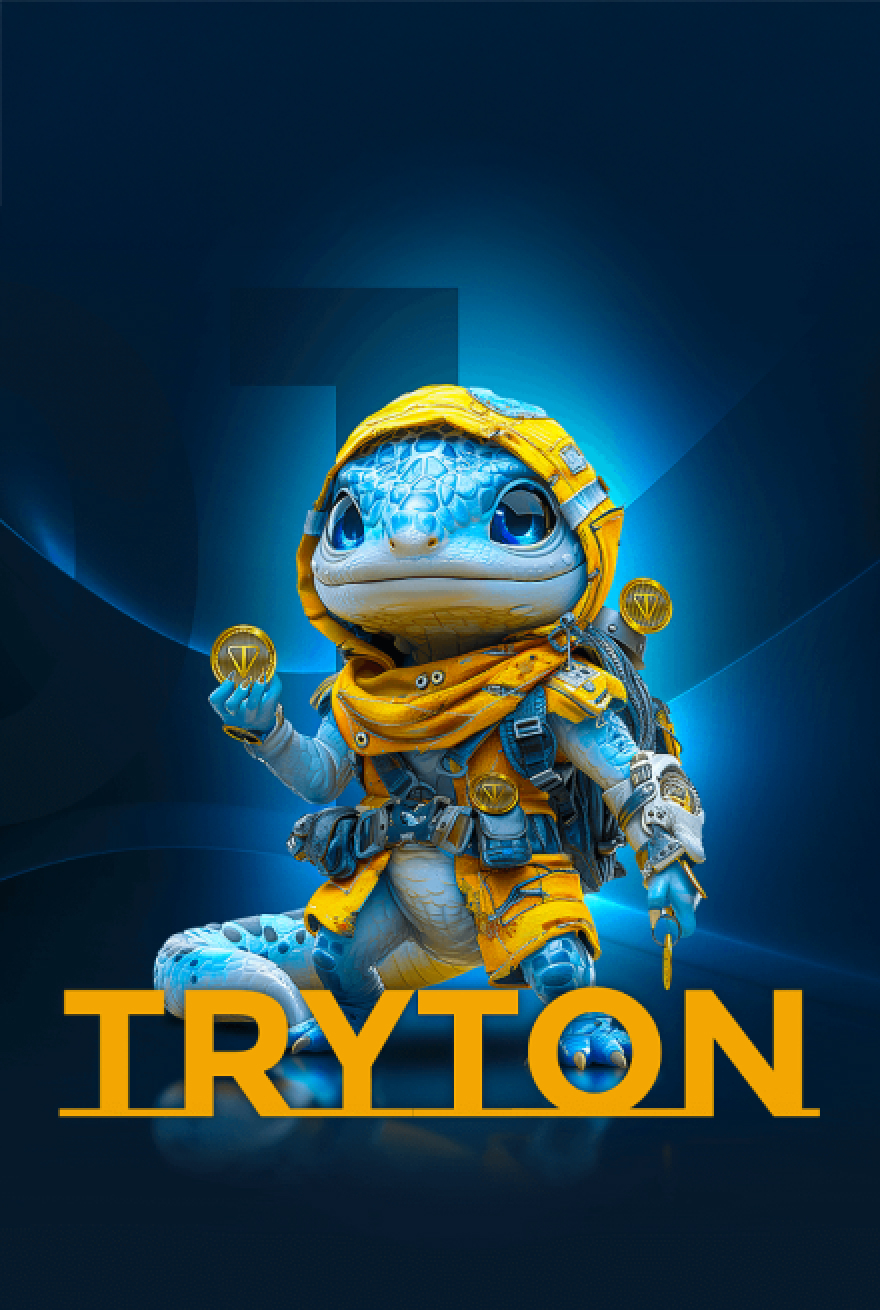
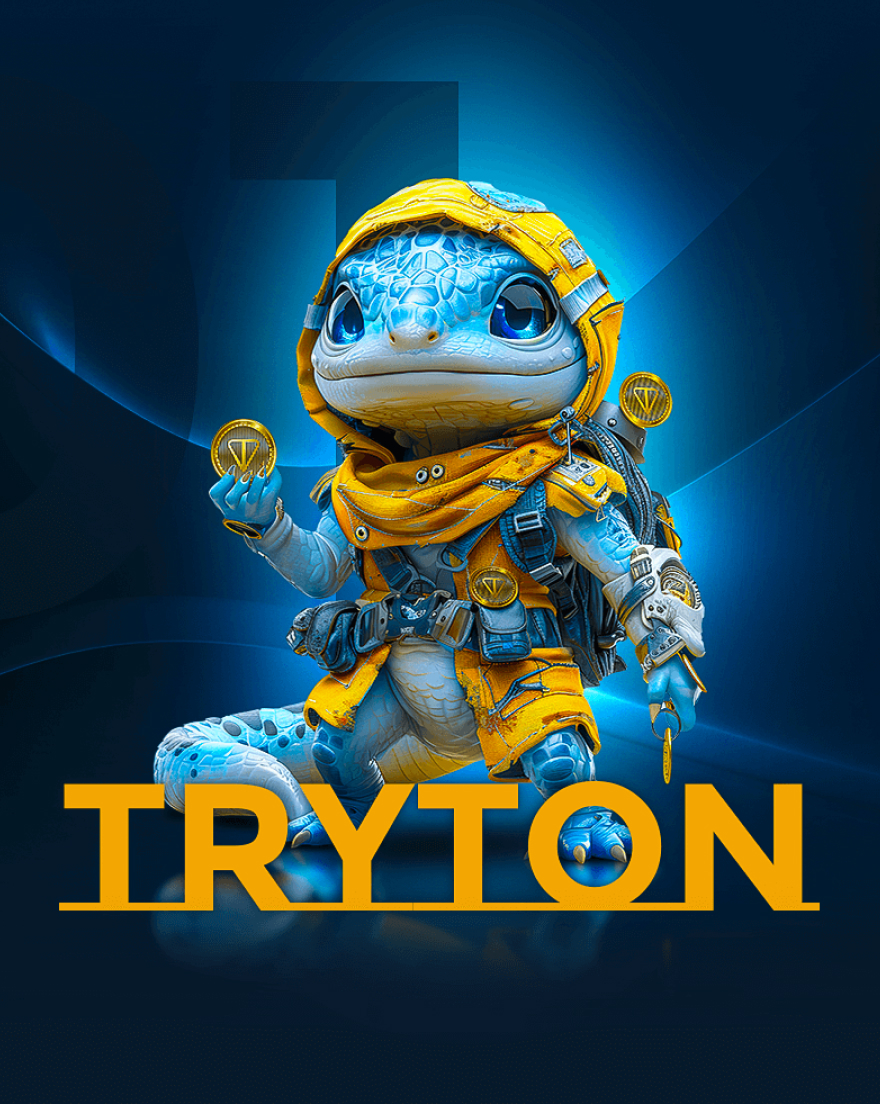
Update

diff --git a/css/response_767.css b/css/response_767.css
@@ -38,7 +38,7 @@
 
     .first_section .cont
     {
-        padding-top: 388px;
+        padding-top: 340px;
     }
 
 
@@ -269,10 +269,24 @@
     }
 
 
+    .mission .item .thumb:before
+    {
+        width: 144px;
+        height: 144px;
+    }
+
+
+    .mission .item:nth-child(1) .thumb:before
+    {
+        top: 24px;
+        left: -60px;
+    }
+
+
     .mission .item:nth-child(3) .thumb:before
     {
-        top: 36px;
-        right: -4px;
+        top: 64px;
+        right: -16px;
     }
 
 
@@ -293,7 +307,7 @@
     .mission .main_item
     {
         width: 100%;
-        margin-bottom: 290px;
+        margin-bottom: 260px;
         padding: 0;
 
         border: none;
@@ -656,6 +670,23 @@
         height: 327px;
 
         border-radius: 339px;
+    }
+
+
+    .three_blocks .item:nth-child(2) .thumb:before
+    {
+        top: 32px;
+        left: 32px;
+    }
+
+
+    .three_blocks .item:nth-child(3) .thumb:before
+    {
+        top: 0;
+        left: 20px;
+
+        width: 144px;
+        height: 144px;
     }
 
 

diff --git a/css/styles.css b/css/styles.css
@@ -320,7 +320,7 @@ button
 
 .first_section .bg.mob
 {
-    top: -52px;
+    top: 0;
     left: 0;
 
     display: none;
